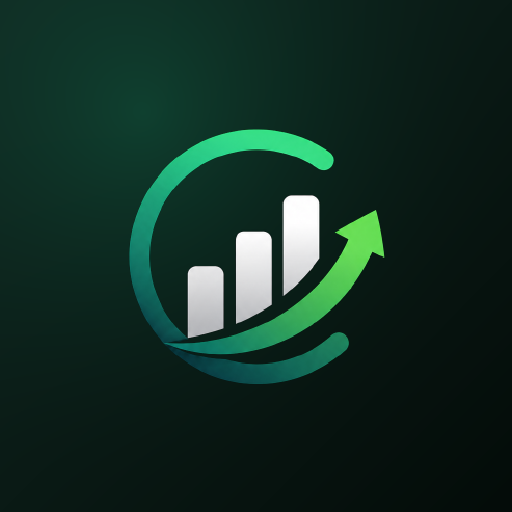
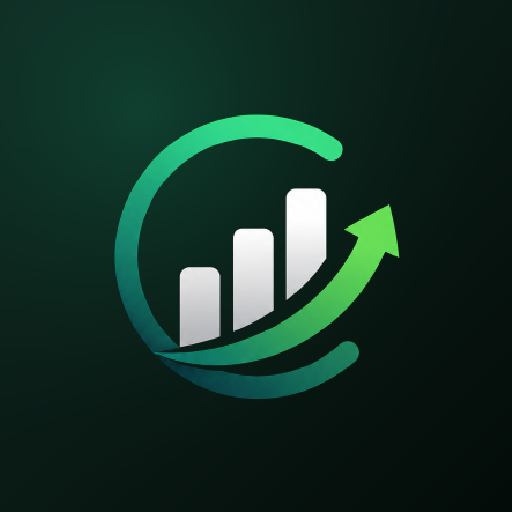
Melhora o icone da tela de abertura do Android
A tela de abertura do Android 12+ corta o icone num circulo e so garante
os 66% centrais. O icone comum tem recuo de 0.74, ou seja, seria cortado
nas bordas se fosse ele o escolhido.

- entra icons/icon-maskable-192.png. Sem um maskable nesse tamanho, o
  Chrome pode preferir o icone comum ao montar o pacote, e ai o corte
  circular pega a marca
- o recuo dos maskable vai de 0.52 para 0.58: a marca cresce na tela de
  abertura e ainda sobra folga ate o corte
- sw v11, com o icone novo no cache offline

Os icones ja eram 100% opacos, sem canto transparente, e o
background_color ja era escuro. A placa branca que sobra vem do pacote
gravado no aparelho na instalacao, que so muda reinstalando o app.

Changed region(s): [[0.2188, 0.2188, 0.7812, 0.7812]]

diff --git a/sw.js b/sw.js
@@ -1,7 +1,7 @@
 /* Poupaê Aurora — service worker
    Deixa o app instalável e funcionando offline. */
 
-const VERSION = "poupae-aurora-v10";
+const VERSION = "poupae-aurora-v11";
 const SHELL_CACHE = `${VERSION}-shell`;
 const RUNTIME_CACHE = `${VERSION}-runtime`;
 
@@ -15,6 +15,7 @@ const SHELL = [
   "./icons/logo-mark.png",
   "./icons/icon-192.png",
   "./icons/icon-512.png",
+  "./icons/icon-maskable-192.png",
   "./icons/icon-maskable-512.png",
   "./icons/apple-touch-icon.png",
 ];
